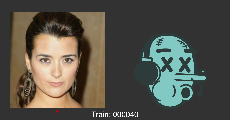
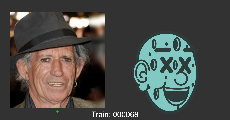
readme

diff --git a/face.js b/face.js
@@ -328,23 +328,23 @@ else if (this.eyeType == 4){ // dead eyes
 }
 
 /*********MOUTH**************/
-if (this.mouthType == 1){ // happy chapy mouth
+if (this.mouthType == 4){ // happy chapy mouth
 
   stroke(DarkAqua_const);
   noFill();
   strokeWeight(.4);
 
-  arc(1.5,3, 6, 9, 0, PI, PI + QUARTER_PI); // mouth bottom  1.5,3
-   arc(1.5,3, 6, 1, 0, PI, PI + QUARTER_PI); // mouth top 1.5,3
+  arc(this.centerMouth[0]+1.75,this.centerMouth[1]+2.5, 6, 9, 0, PI, PI + QUARTER_PI); // mouth bottom  1.5,3
+   arc(this.centerMouth[0]+1.75,this.centerMouth[1]+2.5, 6, 1, 0, PI, PI + QUARTER_PI); // mouth top 1.5,3
 
   fill(DarkAqua_const);
 
-  arc(1.5, 4, 5.6, 5, 0, PI, PI + QUARTER_PI); // mouth darkness
-  noFill();
-  arc(-2.7, 2, 3, 3, 0, HALF_PI); // left cheek outline -2.7
+  arc(this.centerMouth[0]+1.75,this.centerMouth[1]+3.5 ,5.6, 5, 0, PI, PI + QUARTER_PI); // mouth darkness 1.5,4
+ fill(DirtyAqua_const)
+  arc(this.cheekTopLeftX-2,this.cheekTopLeftY+1.5, 3, 3, 0, HALF_PI); // left cheek outline -2.7,2 
 }
 
-else if (this.mouthType == 4){ // whistle mouth
+else if (this.mouthType == 1){ // whistle mouth
 
   stroke(DarkAqua_const);
   fill(DirtyAqua_const);
@@ -409,53 +409,59 @@ arc(this.cheekBottomLeftX+1,this.cheekBottomLeftY+5,5,5,1.5,2.4) //  bottom chee
 }
 /*NOSE**********/
 
-if (this.noseType == 1){ // basic ball nose
+if (this.noseType == 2){ // basic ball nose
   stroke(DarkAqua_const);
   fill(DirtyAqua_const)
   strokeWeight(.4);
   
-  arc(2.5,1,3,3,4,3) // round ball nose
+  arc(this.noseCenterX+2.5,this.noseCenterY+1,3,3,4,3,OPEN) // round ball nose 2.5,1
 
 }
 
-else if (this.noseType == 4){ // pinocchio nose
+else if (this.noseType == 3){ // pinocchio nose
   stroke(DarkAqua_const);
   fill(DirtyAqua_const);
   strokeWeight(.4);
 
-  rect(1,0.5,8.5,1.6,5,5,5) // nose bridge/ main
-  line(7,0.3,8,-0.5) // stem 1 base
-  line(7.3,0.1,7,-0.5) // stem one branch
-  ellipse(8.5,-0.5,1,0.75) // stem 1 leaf
-  line(5.5,1.5,7,3) // stem 2 base
-  line(6.8,2.7,7.4,2.6) // stem 2 branch
+  rect(this.noseCenterX+1.75,this.noseCenterY+.1,8.5,1.6,5,5,5) // nose bridge/ main 1, 0.5
+  line(this.noseCenterX+7.5,this.noseCenterY,this.noseCenterX+8.5,this.noseCenterY-0.75) // stem 1 base 7,0.3,8,-0.5
+  line(this.noseCenterX+7.5,this.noseCenterY,this.noseCenterX+7.4,this.noseCenterY-0.75) // stem one branch 7.3,0.1,7,-0.5
+  ellipse(this.noseCenterX+9,this.noseCenterY-0.75,1,0.75) // stem 1 leaf 8.5,-0.5
+  line(this.noseCenterX+6,this.noseCenterY+1.25,this.noseCenterX+7.4,this.noseCenterY+2.75) // stem 2 base 5.5,1.5,7,3
+  line(this.noseCenterX+6.75,this.noseCenterY+2.25,this.noseCenterX+7.75,this.noseCenterY+2.25) // stem 2 branch 6.8,2.7,7.4,2.6
   noStroke()
-  rect(0.5,0.7,2,1.2,5,5,5) // gets rid of the rect join 
+  rect(this.noseCenterX+1,this.noseCenterY+.3,2,1.2,5,5,5) // gets rid of the rect join 
  
 }
 
-else if (this.noseType == 3){ // plastic surgery nose
+else if (this.noseType == 1){ // plastic surgery nose
 stroke(DarkAqua_const);
   noFill()
   strokeWeight(.4);
 
-  arc(3.3,-2,3,5,1.75,3.3) // nose bridge curve
+  arc(this.noseCenterX+3.5,this.noseCenterY-2.5,3,5,1.75,3.3) // nose bridge curve 3.3 -2
   fill(DirtyAqua_const)
-  arc(3.2,1.45,2.2,2.2,4.5,2,OPEN) // nose knob
+  arc(this.noseCenterX+3.4,this.noseCenterY+0.9,2.2,2.2,4.5,2,OPEN) // nose knob 3.2,1.45
   noFill()
-  arc(2.2,2.5,1,1.2,4,6) // nose under curve
+  arc(this.noseCenterX+2.4,this.noseCenterY+1.9,1,1.2,4,6) // nose under curve 2.2,2.5
+
+  stroke(DirtyAqua_const)
+  strokeWeight(1)
+  arc(this.noseCenterX+2.95 ,this.noseCenterY-2,3,5,1.75,3.3) // nose bridge negativespace curve 3.3 -2
+  arc(this.noseCenterX+2.6,this.noseCenterY+1.1,1,1.2,4,6) // nose negative under curve 2.2,2.5
+
 }
 
-else if (this.noseType == 2){ // pimple nose
+else if (this.noseType == 4){ // pimple nose
   stroke(DarkAqua_const);
   fill(DirtyAqua_const)
   strokeWeight(.4);
   
-  arc(2.5,0,3,5,4.5,2.3,OPEN) // nose birdge and knob
-  arc(1.1,1.5,2,2,1,4.5) // nostril
-  arc(3.9,0,1.2,1.2,4,8,OPEN) // pimple
-  ellipse(2.5,-1,0.1) // blackhead top
-  ellipse(2.1,1.2,0.1) // blackhead bottom
+  arc(this.noseCenterX+2.75,this.noseCenterY,3,5,4.5,2.3,OPEN) // nose birdge and knob 2.5,0
+  arc(this.noseCenterX+1.1,this.noseCenterY+1,2,2,1,4.5) // nostril 1.1,1.5
+  arc(this.noseCenterY+3.5,this.noseCenterY,1.2,1.2,4,8,OPEN) // pimple 3.9,0
+  ellipse(this.noseCenterX+3,this.noseCenterY-1,0.1) // blackhead top 2.5,-1
+  ellipse(this.noseCenterX+2.5,this.noseCenterY+1,0.1) // blackhead bottom 2.1,1.2
 
 }
 
@@ -733,7 +739,7 @@ strokeWeight(.7)
   this.setProperties = function(settings) {
     this.eyeType = int(map(settings[0], 0, 100, 1, 4));
     this.mouthType = int(map(settings[1], 0, 100, 1, 4));
-     this.noseType = int(map(settings[2], 0, 100, 0,4)); // change back to 1 for start of map
+     this.noseType = int(map(settings[2], 0, 100, 1,4)); // change back to 1 for start of map
     this.earType = int(map(settings[3], 0, 100, 1, 4));
     this.extraType = int(map(settings[4], 0, 100, 1, 4));
   }

diff --git a/README.md b/README.md
@@ -29,3 +29,17 @@ The positions are harded to do than I thought. Originally I thought i could mere
 25/05
 
 New Plan. I am Only going to Map the eyes and mouths to the facial points. If I have time, I will do the nose as well. My main focus is going to be on training the machine learning function on recognising different people. I need to put my variations into rules (e.g blondes have a smile, brunettes have a whistling mouth). I’m halfway through finishing the mouth so that will be my next step after I finish it.
+
+30/05
+
+The Nose, mouth and eyes are now all mapped onto certain facial points and move pretty decently with the different variations of faces. I’ve started to train the machine and I’ve made it to 60 faces. It’s pretty tiring! I decided to use these five different variations. Expression, Hair length, Hair colour, Eye colour and Age.
+
+Expression = MouthType: smile/Scared Mouth, smile with teeth/Happy Mouth,  neutral/ Bucktooth Mouth,  quirky/ Whistle Mouth
+
+Hair length = EarType: Bald/Earring , Short/Elf,  Medium/Large ear, Long/HeadPhones
+
+Hair Colour = NoseType: Red/Plastic Nose, Brunette/Round Nose, Blonde/Pinnochio Nose, Bald/Pimple  Nose
+
+Eye colour = EyeType: Brown/Dead Eyes, Black/Surprised Eyes, Blue/Suspicious Eyes, Green/Scared Eyes
+
+Age = ExtraType: Young/Devil Horns, Youngmiddle/Scars,  MiddleOld/Arrow,  Old/ Holes
